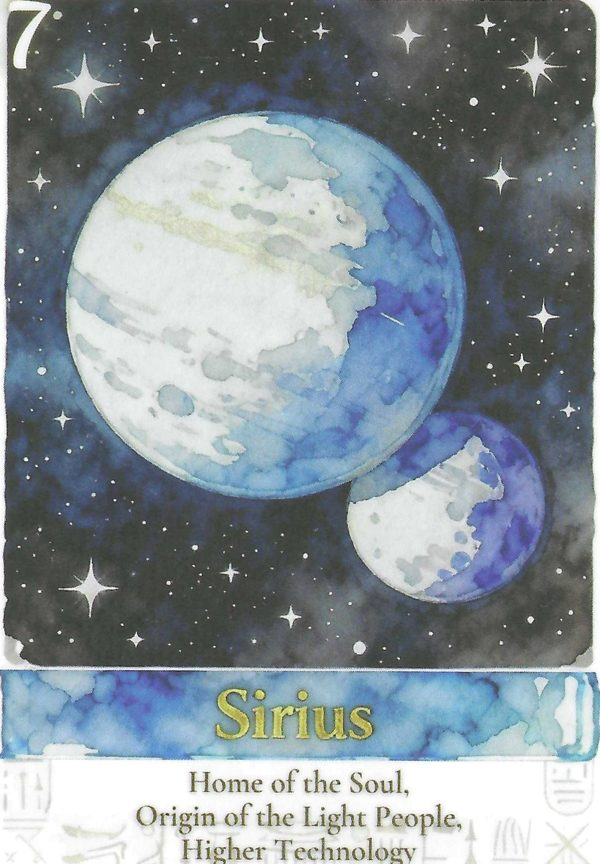
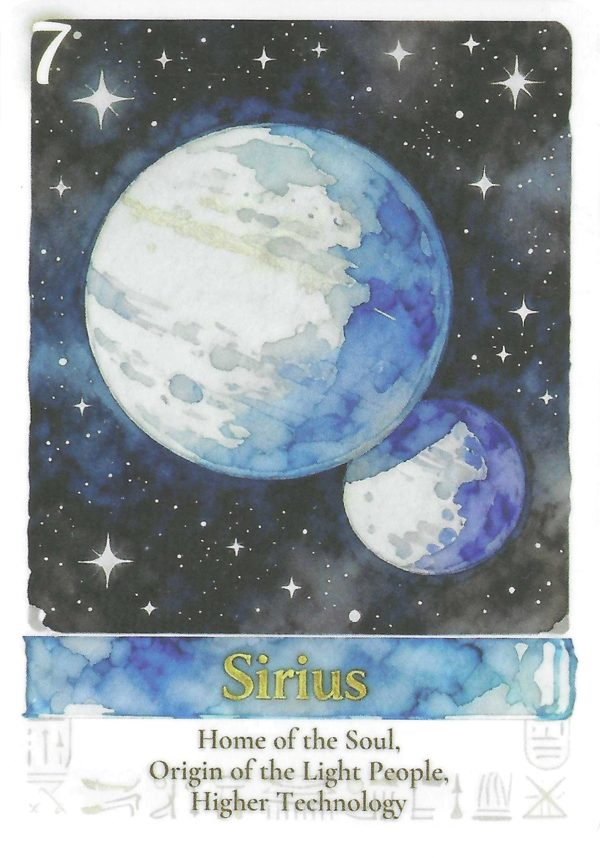
カードシェア機能を追加し画像を差し替え

diff --git a/index.html b/index.html
@@ -108,7 +108,13 @@ main{flex:1; display:flex; flex-direction:column; align-items:center; width:100%
 #again{display:inline-block; margin:30px 0 6px; font-size:14px; font-weight:500; letter-spacing:.1em;
   color:var(--ink); cursor:pointer; background:none; border:none; font-family:inherit;
   border-bottom:1px solid var(--gold); padding-bottom:2px}
-#home{display:block; margin:18px auto 10px; font-family:inherit; font-size:14.5px; font-weight:500;
+#share{display:block; margin:22px auto 0; font-family:inherit; font-size:14.5px; font-weight:500;
+  letter-spacing:.12em; color:#fff; cursor:pointer;
+  background:linear-gradient(135deg,var(--rose),var(--lav));
+  border:none; border-radius:999px; padding:12px 36px;
+  box-shadow:0 5px 18px rgba(216,167,177,.4); transition:transform .25s, box-shadow .25s}
+#share:hover{transform:translateY(-2px); box-shadow:0 9px 24px rgba(197,180,227,.5)}
+#home{display:block; margin:14px auto 10px; font-family:inherit; font-size:14.5px; font-weight:500;
   letter-spacing:.12em; color:var(--ink); cursor:pointer;
   background:#fff; border:1px solid rgba(201,168,106,.55); border-radius:999px;
   padding:11px 34px; transition:all .3s}
@@ -117,6 +123,10 @@ footer{text-align:center; font-size:12.5px; line-height:1.9; color:#8E8194; padd
 @media (max-width:480px){
   #intro h1{font-size:28px}
   #info h2{font-size:23px}
+  .chips span{font-size:15px; padding:7px 15px}
+  .chips.subs span{font-size:15.5px; padding:8px 17px}
+  #info #hintbox .subttl{font-size:17.5px}
+  #hintbox{padding:22px 18px 20px}
 }
 @media (prefers-reduced-motion: reduce){
   *{transition-duration:.01s !important; animation:none !important}
@@ -164,6 +174,7 @@ footer{text-align:center; font-size:12.5px; line-height:1.9; color:#8E8194; padd
         <div class="chips subs"></div>
       </div>
       <button id="again">もう一度シャッフルする</button>
+      <button id="share">✦ このカードをシェアする</button>
       <button id="home">ホームに戻る</button>
     </div>
   </section>
@@ -298,7 +309,9 @@ function stopAndDraw(){
   setTimeout(()=> reveal(chosen), reduced ? 150 : 2150);
 }
 
+let currentCard = null;
 function reveal(c){
+  currentCard = c;
   show("#result");
   const img = $("#cardimg"); img.src = c.img; img.alt = c.jp;
   // カードサイズ(縦横比は画像に合わせる)
@@ -332,6 +345,31 @@ $("#again").onclick = ()=>{  // 同じデッキでそのままもう一度混ぜ
   show("#table-scene"); buildTable();
 };
 $("#home").onclick = ()=>{ show("#intro"); phase = "idle"; $("#hint").style.opacity = 1; };
+const SITE_URL = "https://resonancelink.github.io/michiyo_oraclecards/";
+$("#share").onclick = async ()=>{
+  const c = currentCard; if(!c) return;
+  const text = `みちよオラクル「今日の１枚」\n今日のカードは「${c.jp}」でした`;
+  try{
+    let files = null;
+    try{
+      const blob = await (await fetch(c.img)).blob();
+      const f = new File([blob], `michiyo-oracle-${String(c.no).padStart(2,"0")}.jpg`, {type: "image/jpeg"});
+      if(navigator.canShare && navigator.canShare({files: [f]})) files = [f];
+    }catch(e){}
+    if(navigator.share){
+      const data = files ? {title: "みちよオラクル", text: text, url: SITE_URL, files: files}
+                         : {title: "みちよオラクル", text: text, url: SITE_URL};
+      await navigator.share(data);
+      return;
+    }
+  }catch(e){ if(e && e.name === "AbortError") return; }
+  try{
+    await navigator.clipboard.writeText(text + "\n" + SITE_URL);
+    const b = $("#share"), t = b.textContent;
+    b.textContent = "コピーしました ✓";
+    setTimeout(()=>{ b.textContent = t; }, 1800);
+  }catch(e){}
+};
 window.addEventListener("resize", ()=>{ if(phase === "shuffling"){ /* サイズ変更時はそのまま */ } });
 </script>
 </body>